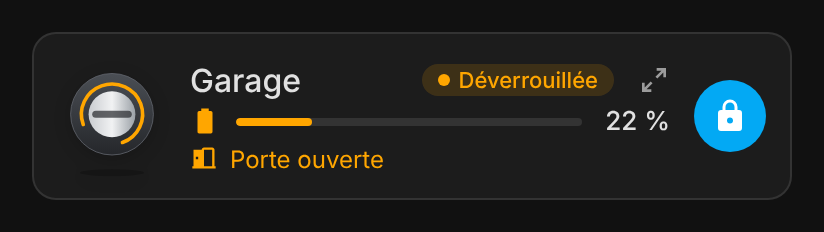
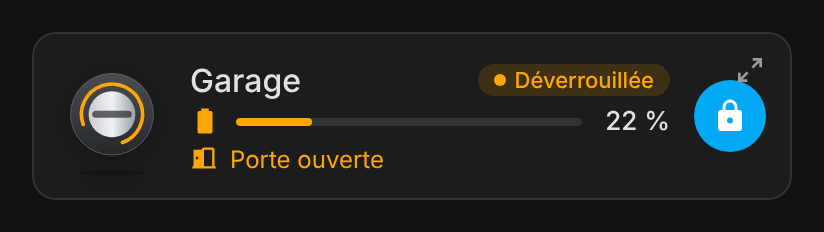
Mini card: detail button to the top-right corner (1.2.1)
Claude-Session: https://claude.ai/code/session_01D5Bd6TRY4BTcvXm4WheNsK

Changed region(s): [[0.4854, 0.2716, 0.8192, 0.4224], [0.9102, 0.2414, 0.9405, 0.3017], [0.8799, 0.3017, 0.9102, 0.3621]]

diff --git a/src/smartlock-card.js b/src/smartlock-card.js
@@ -1244,7 +1244,8 @@ class SmartLockCard extends SmartLockBase {
 // ---------------------------------------------------------------------------
 
 const MINI_STYLE = `
-  .mini { display: flex; align-items: center; gap: 12px; padding: 10px 12px; }
+  .mini { position: relative; display: flex; align-items: center; gap: 12px; padding: 10px 12px; }
+  .mini .zoom { position: absolute; top: 6px; right: 8px; margin: 0; }
   .mini .picture { width: 54px; height: 62px; flex: none; }
   .mini .picture img { filter: drop-shadow(0 2px 4px rgba(0,0,0,.18)); }
   .mini .info { flex: 1; min-width: 0; display: flex; flex-direction: column; gap: 3px; }
@@ -1335,12 +1336,12 @@ class SmartLockMiniCard extends SmartLockCard {
             <div class="top">
               <span class="name clickable" data-entity="${esc(lock.entity_id)}">${esc(this._config.title || name(this._hass, lock.entity_id))}</span>
               <span class="chip clickable ${cls}" data-entity="${esc(lock.entity_id)}"><span class="dot"></span>${esc(this._fmtState(state))}</span>
-              ${this._zoomButton()}
             </div>
             ${this._batteryLine(this._battery(m))}
             ${secondary}
           </div>
           ${controls ? `<div class="controls">${controls}</div>` : ""}
+          ${this._zoomButton()}
         </div>
       </ha-card>`;
   }

diff --git a/CHANGELOG.md b/CHANGELOG.md
@@ -1,5 +1,10 @@
 # Changelog
 
+## 1.2.1
+
+### Fixes
+- Mini card: the detail button was cramped between the status pill and the buttons. It is now in the top-right corner of the card, clear of the controls.
+
 ## 1.2.0
 
 ### Changes
